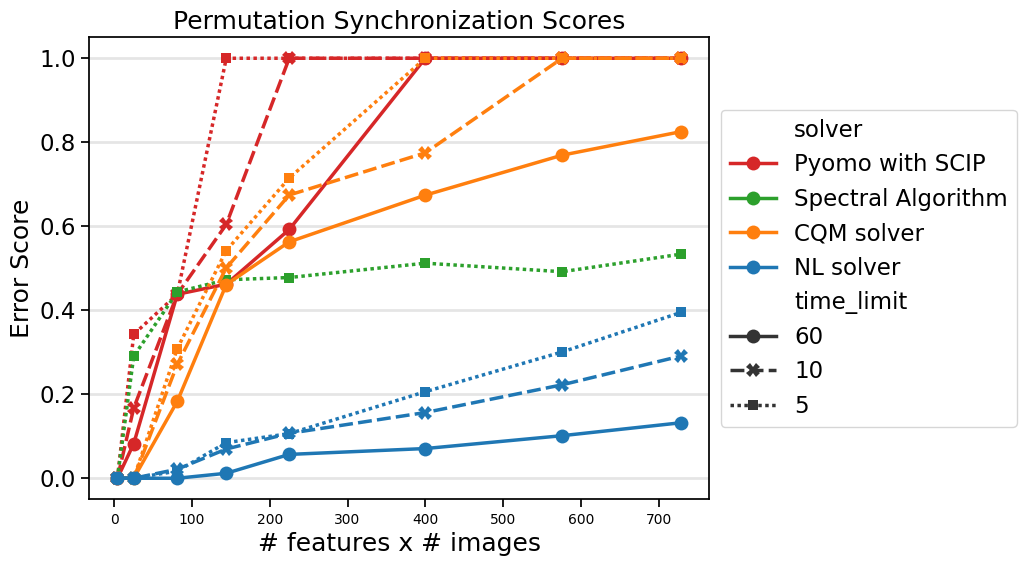
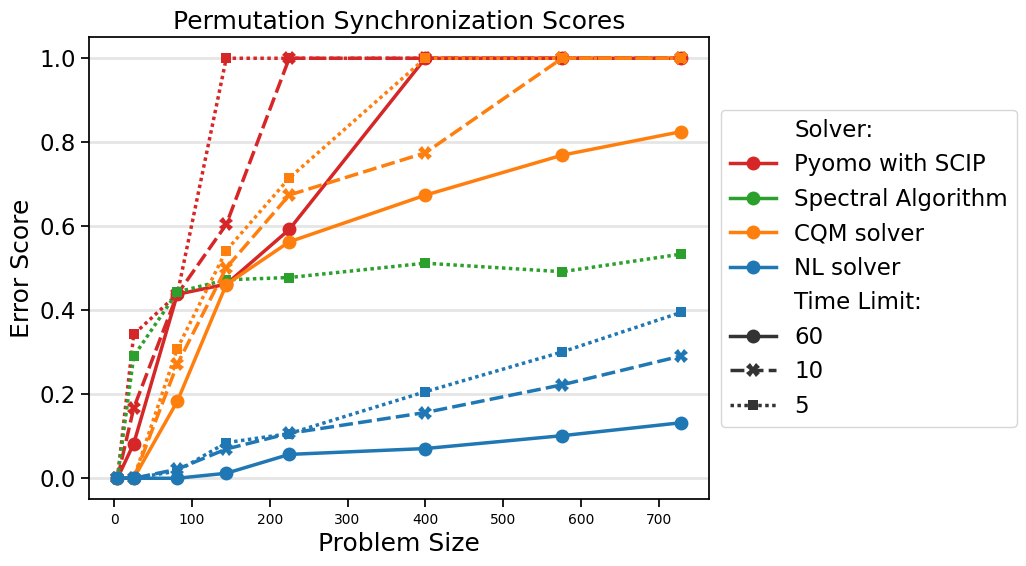
Make changes from code review for plot, example, and table

Changed region(s): [[0.2495, 0.9311, 0.5302, 0.9912], [0.7797, 0.5106, 0.9045, 0.5707], [0.7797, 0.2102, 0.8421, 0.2403]]

diff --git a/docs/industrial_optimization/vignette_object-tracking.rst b/docs/industrial_optimization/vignette_object-tracking.rst
@@ -41,18 +41,25 @@ Nonlinear Model
 
 With the NL Solver, we use :meth:`~dwave.optimization.model.Model.list`
 variables to represent the global permutations, which can be viewed as mappings
-from the global labels to the features in each image. We view the state of the
+from the features in each image to the global labels. We view the state of the
 list variable as a permutation in one-line form where, for example, [210]
 represents the mapping:
 
-global label "eye" → feature 2 in the image
+.. table:: Example permutation mapping
+   :width: 60%
 
-global label "ear" → feature 1 in the image
+   +---------+-----------+
+   | Feature | Label     |
+   +=========+===========+
+   | 0       | 2 ("eye") |
+   +---------+-----------+
+   | 1       | 1 ("ear") |
+   +---------+-----------+
+   | 2       | 0 ("foot")|
+   +---------+-----------+
 
-global label "foot" → feature 0 in the image
-
-For each of the :math:`n` images, we create a global permutation of length equal to the
-number of features, :math:`m`.
+For each of the :math:`n` images, we create a global permutation of length equal
+to the number of features, :math:`m`.
 
 .. testsetup:: [vto_nl1]
 
@@ -84,6 +91,10 @@ composition involves creating inverse permutations:
         inv_perm = put(array, indices, values)
         inv_perms[i] = inv_perm
 
+For example, if :math:`\pi_1 = [120]`, then :math:`\pi_1^{-1} = [201]`, where
+the :math:`i^{th}` entry of :math:`\pi_1^{-1}` is the index of :math:`i` in
+:math:`\pi_i`. 
+
 The pairwise permutation :math:`\pi_{ij}` is then given by indexing
 :math:`\pi_j^{-1}` by :math:`\pi_i`:
 
@@ -99,15 +110,18 @@ The pairwise permutation :math:`\pi_{ij}` is then given by indexing
         for j in range(n):
             perm_convs[(i,j)] = inv_perms[j][permutations[i]]
 
+As an example, if :math:`\pi_1 = [021]` and :math:`\pi_2 = [120]`, then
+:math:`\pi_{12} = \pi_2^{-1}[\pi_1] = [201][021] = [210]`.
+
 The objective function ensures that the entries of our stochastic matrices
-indexed by the pairwise permutaitons are as close to 1 as possible.
+indexed by the pairwise permutations are as close to 1 as possible.
 
 
 .. testcode:: [vto_nl1]
 
     import numpy as np
 
-    M_raw = {(i,j): np.random.rand(m,m) for i in range(n-1) for j in range(i+1, n)}
+    M_raw = {(i,j): np.random.rand(m,m) for i in range(n-1) for j in range(i+1,n)}
     M = {(i,j): v/v.sum(axis=1, keepdims=True) for (i,j), v in M_raw.items()}
     model.objective = model.constant(0)
 
@@ -187,9 +201,10 @@ and CQM solver benchmarks were run on D-Wave's |cloud_tm|_ quantum cloud
 service. Pyomo with SCIP and the spectral algorithm were run on an AMD EPYC 9534
 64-Core Processor @ 2.45 GHz with 128 GB of memory. The error score (on a scale
 of 0 to 1) is the gap from the specified solver divided by the gap from the
-random solution. The optimal solution is taken to be the best solution found
-throughout the study, which includes a 20-minute run on the nonlinear solver
-(not shown).
+random solution. The optimal solution (used for computing the gap) is taken to
+be the best solution found throughout the study, which includes a 20-minute run
+on the nonlinear solver (not shown). The problem size is equal to the number of
+features times the number of images.
 
 :numref:`Figure %s <vignetteObjectTrackingLineplot>` shows results on the object
 tracking instances with 5, 10, and 60 seconds of runtime.
